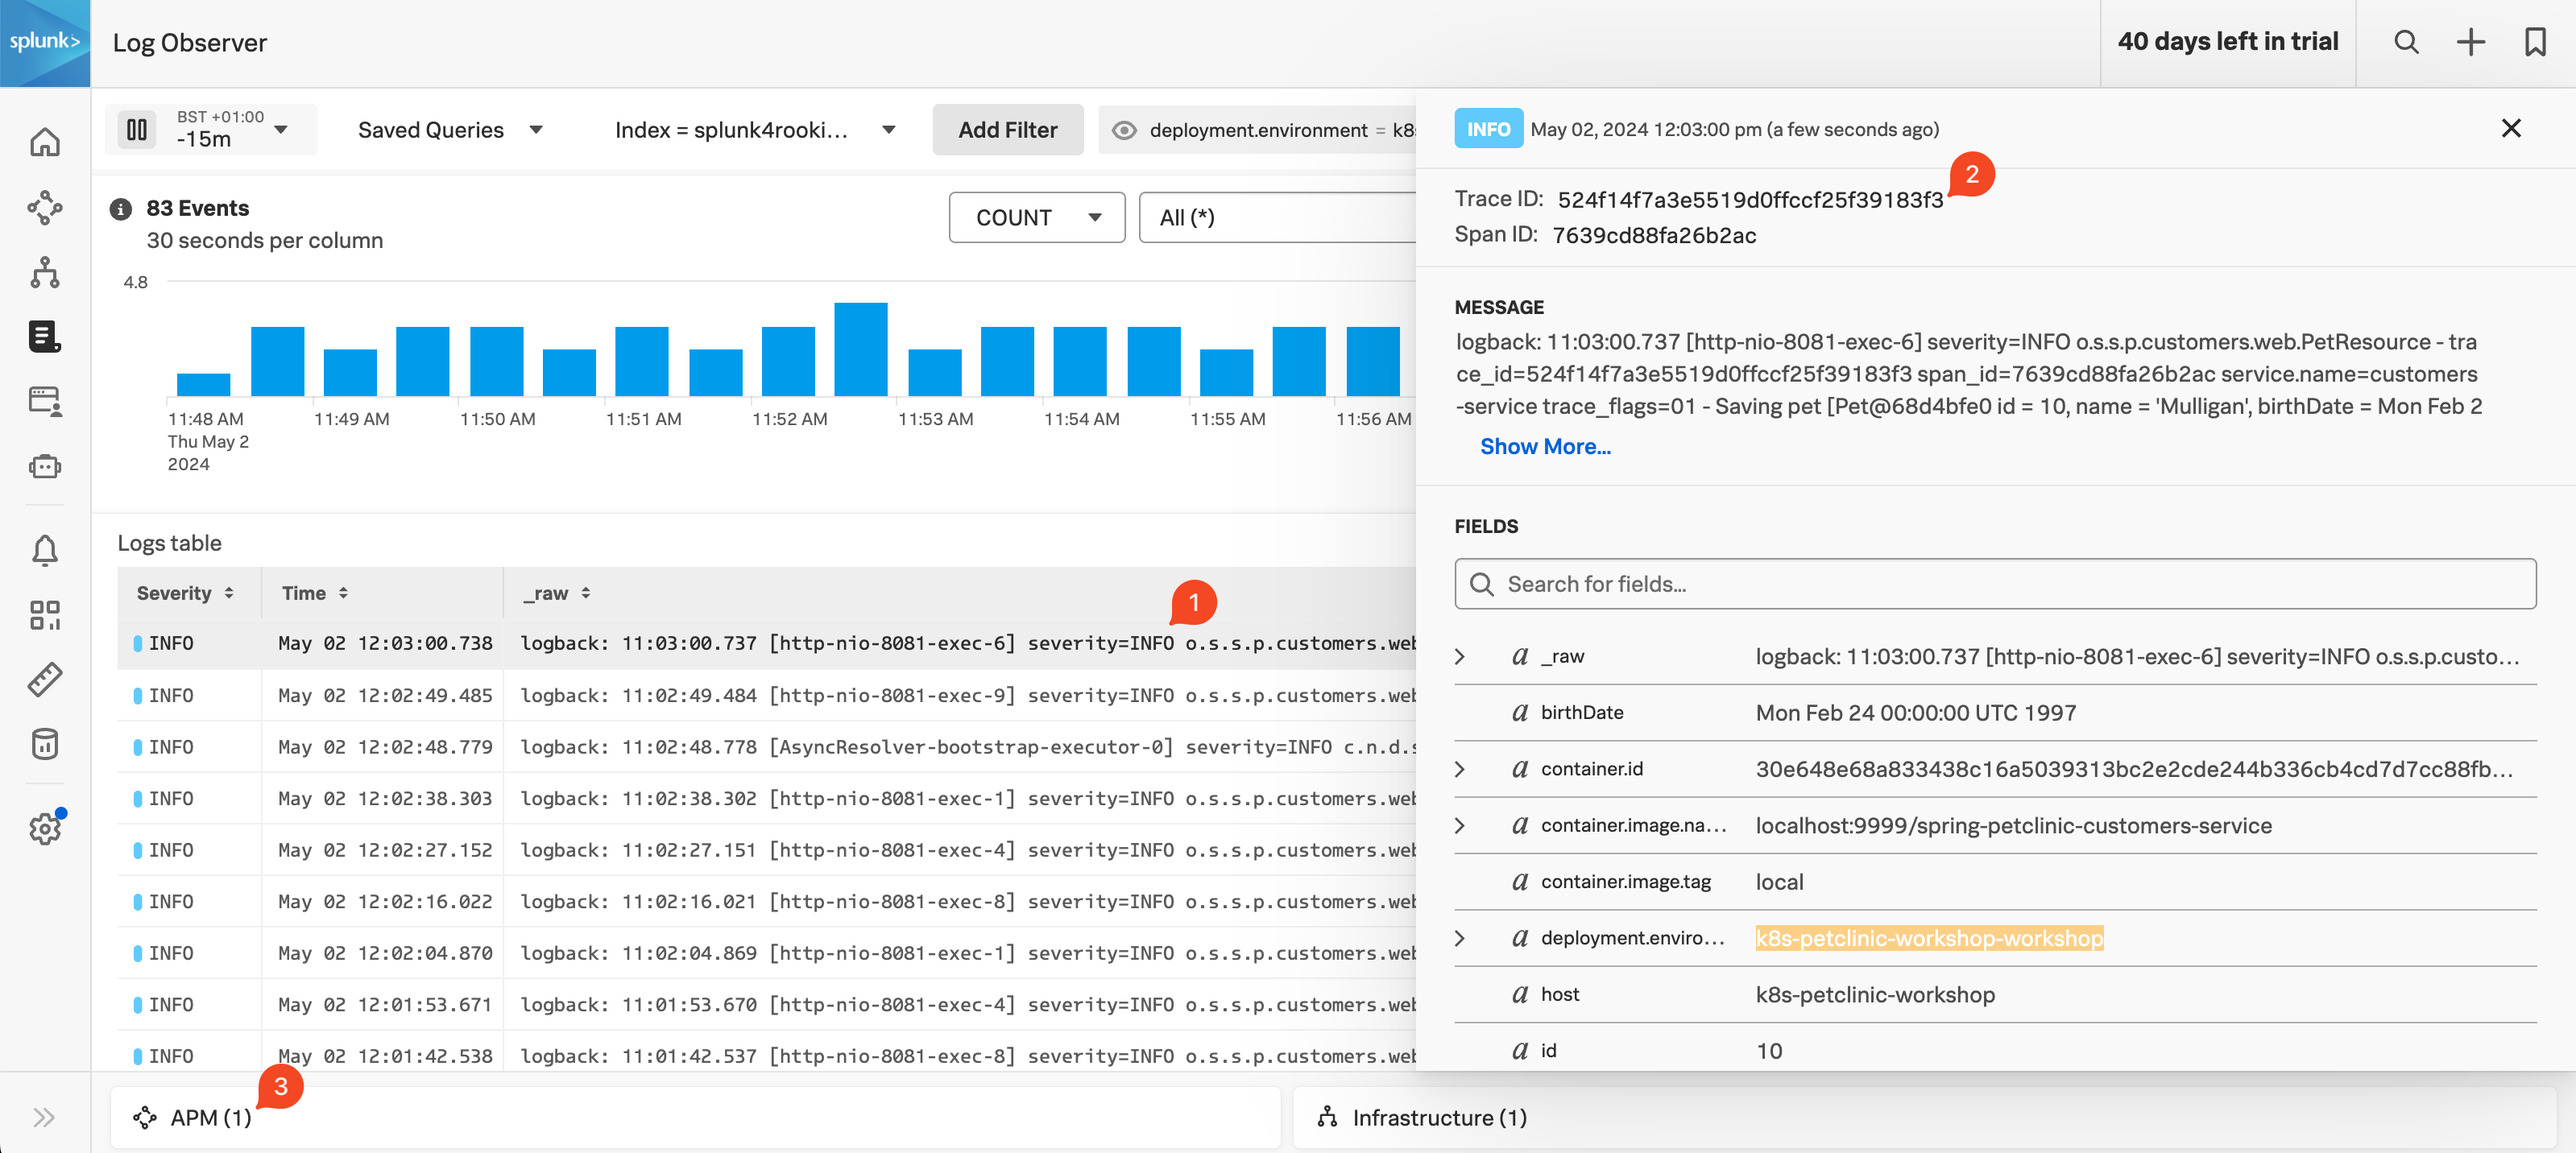
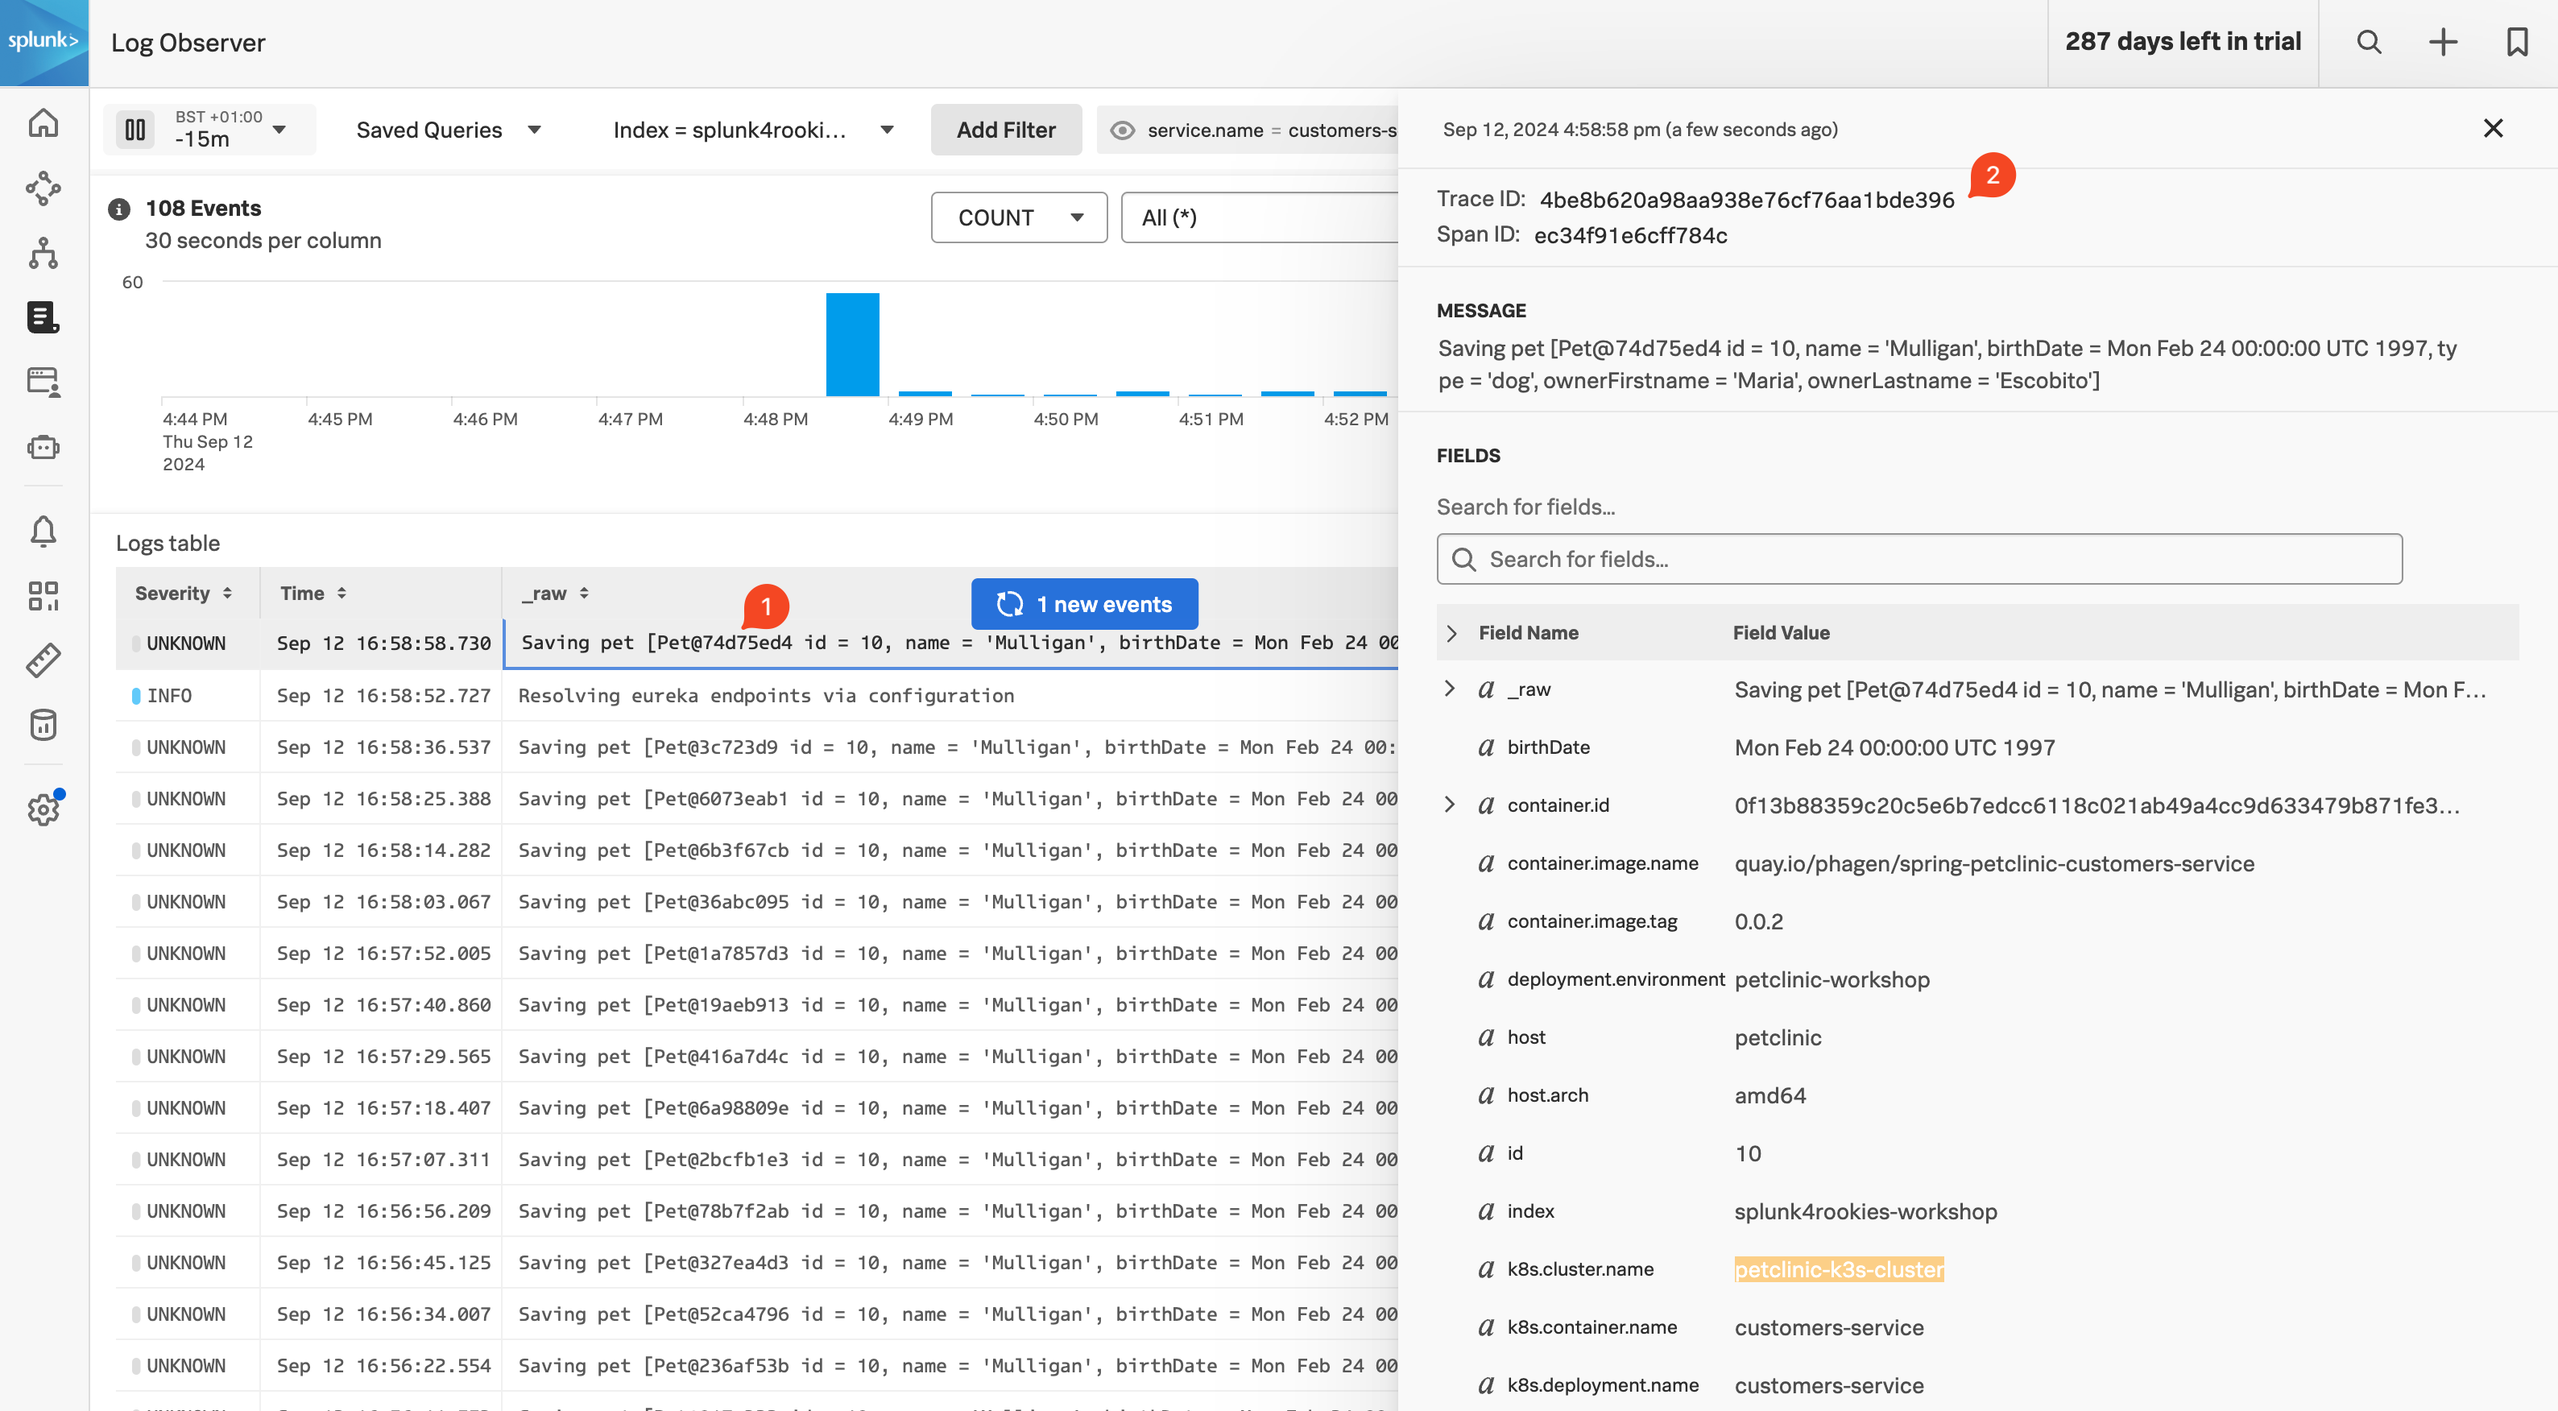
Refactored to support Java 2.x

diff --git a/content/en/other/3-automatic-discovery/2-petclinic-kubernetes/7-log-observer-connect/1-view-logs.md b/content/en/other/3-automatic-discovery/2-petclinic-kubernetes/7-log-observer-connect/1-view-logs.md
@@ -1,16 +1,14 @@
 ---
 title: Viewing the Logs
-linkTitle: 4. Viewing the Logs
-weight: 4
+linkTitle: 1. Viewing the Logs
+weight: 2
 ---
 
 In order to see logs click on the **Log Observer** ![Logo](../../images/logo-icon.png?classes=inline&height=25px) in the left-hand menu. Once in Log Observer please ensure **Index** on the filter bar is set to **splunk4rookies-workshop**.
 
 Next, click **Add Filter** and search for the field `deployment.environment`, select your workshop instance and click `=` (to include). You will now see only the log messages from your PetClinic application.
 
-Next search for the field  `service_name`, select the value `customers-service` and click `=` (to include). Now the log entries will be reduced to show the entries from your `customers-service` only.
-
-In the log entry you will see the message is formatted as per the pattern we configured for logback eariler **(1)**:
+Next search for the field  `service.name`, select the value `customers-service` and click `=` (to include). Now the log entries will be reduced to show the entries from your `customers-service` only.
 
 ![Log Observer](../../images/log-observer-trace-info.png)
 

diff --git a/content/en/other/3-automatic-discovery/2-petclinic-kubernetes/7-log-observer-connect/_index.md b/content/en/other/3-automatic-discovery/2-petclinic-kubernetes/7-log-observer-connect/_index.md
@@ -8,9 +8,9 @@ time: 10 minutes
 
 Up until this point, there have been no code changes, yet tracing, profiling and Database Query Performance data is being sent to Splunk Observability Cloud.
 
-Next we will add the **Splunk Log Observer** to the mix to obtain log data from the Spring PetClinic application.
+Next we will work with the **Splunk Log Observer** to the mix to obtain log data from the Spring PetClinic application.
 
-This change will update the configuration of [**logback**](https://logback.qos.ch/) in the Spring PetClinic application. This will allow the automatic discovery and configuration to add OpenTelemetry relevant information into the logs.
+The **Splunk OpenTelemetry Collector** automatically collects logs from the Spring PetClinic application and sends them to Splunk Observability Cloud using the OTLP exporter, annotating the log events with `trace_id`, `span_id` and trace flags.
 
 The **Splunk Log Observer** is then used to view the logs and with the changes to the log format the platform can automatically correlate log information with services and traces.
 

diff --git a/content/en/other/3-automatic-discovery/2-petclinic-kubernetes/9-wrap-up/_index.md b/content/en/other/3-automatic-discovery/2-petclinic-kubernetes/9-wrap-up/_index.md
@@ -6,7 +6,7 @@ archetype: chapter
 description: Congratulations, you have completed the Get the Most Out of Your Existing Kubernetes Java Applications Using Automatic Discovery and Configuration With OpenTelemetry. Today, you have become familiar with how easy it is to add tracing, Code Profiling and Database Query Performance to your existing Java application in Kubernetes to immediately improve the observability of your applications and infrastructure.
 ---
 
-Congratulations, you have completed the **Get the Most Out of Your Existing Kubernetes Java Applications Using Automatic Discovery and Configuration With OpenTelemetry** workshop.  
+Congratulations, you have completed the **Get the Most Out of Your Existing Kubernetes Java Applications Using Automatic Discovery and Configuration With OpenTelemetry** workshop.
 
 Today, you have learnt how easy it is to add Tracing, Code Profiling and Database Query Performance to your existing Java application in Kubernetes.
 

diff --git a/content/en/other/3-automatic-discovery/2-petclinic-kubernetes/7-log-observer-connect/2-related-content.md b/content/en/other/3-automatic-discovery/2-petclinic-kubernetes/7-log-observer-connect/2-related-content.md
@@ -1,0 +1,15 @@
+---
+title: Related Content
+linkTitle: 2. Related Content
+weight: 3
+---
+
+In the bottom pane is where any related content will be reported. In the screenshot below you can see that APM has found a trace that is related to this log line **(1)**:
+
+![RC](../../images/log-apm-rc.png)
+
+By clicking on **Trace for 4be8b620a98aa938e76cf76aa1bde396** **(2)** will take us to the waterfall in APM for this specific trace that this log line was generated from:
+
+![waterfall logs](../../images/waterfall-with-logs.png)
+
+Note that you now have Related Content pane for Logs appear **(1)**. Clicking on this will take you back to Log Observer and will display all the log lines that are part of this trace.

diff --git a/content/en/other/3-automatic-discovery/2-petclinic-kubernetes/7-log-observer-connect/3-deploy.md b/content/en/other/3-automatic-discovery/2-petclinic-kubernetes/7-log-observer-connect/3-deploy.md
@@ -2,6 +2,7 @@
 title: Deploy to Kubernetes
 linkTitle: 3. Deploy to Kubernetes
 weight: 3
+hidden: true
 ---
 
 To see the changes in effect, we need to redeploy the services, First, let's change the location of the images from the external repo to the local one by running the following script:

diff --git a/content/en/other/3-automatic-discovery/2-petclinic-kubernetes/7-log-observer-connect/2-rebuild-services.md b/content/en/other/3-automatic-discovery/2-petclinic-kubernetes/7-log-observer-connect/2-rebuild-services.md
@@ -2,6 +2,7 @@
 title: Rebuild PetClinic
 linkTitle: 2. Rebuild PetClinic
 weight: 2
+hidden: true
 ---
 
 Before we can build the new services with the updated log format we need to add the OpenTelemetry dependency that handles field injection to the `pom.xml` of our services:

diff --git a/content/en/other/3-automatic-discovery/2-petclinic-kubernetes/7-log-observer-connect/1-configure-logback.md b/content/en/other/3-automatic-discovery/2-petclinic-kubernetes/7-log-observer-connect/1-configure-logback.md
@@ -2,6 +2,7 @@
 title: Configuring Logback
 linkTitle: 1. Configure Logback
 weight: 1
+hidden: true
 ---
 
 First, clone the PetClinic GitHub repository, as we will need this later in the workshop to compile, build, package and containerize the application:
